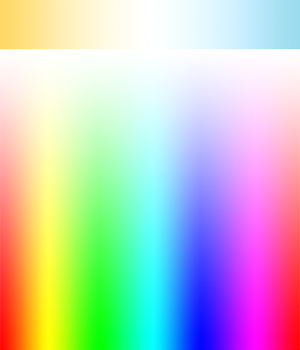
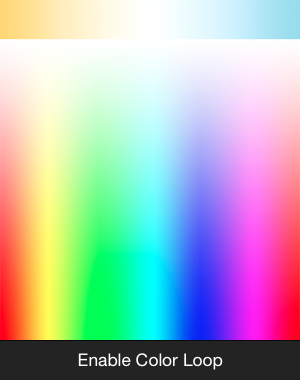
Support for putting lights into color loop mode

diff --git a/static/dashboard.html b/static/dashboard.html
@@ -159,7 +159,7 @@
         margin: auto;
         z-index: 1001;
         width: 320px;
-        height: 370px;
+        height: 400px;
         border-width: 1px;
         border-style: solid;
         border-radius: 6px;

diff --git a/README.md b/README.md
@@ -19,6 +19,7 @@ And the same on the iPad:
 - Works with any modern browser
 - Adjusting individual lights or the automatically created groups is comfortable both with a mouse or touch based input
 - Existing scenes are fetched from the bridge
+- Supports putting lights in a 'color loop' mode where they cycle between all available colors
 - All official Philips Hue lights are recognized and displayed with the appropriate graphics
 - The UI is done with vector graphics and looks crisp on retina displays
 - On-screen light status responds in real-time to changes with smooth animations and transitions
